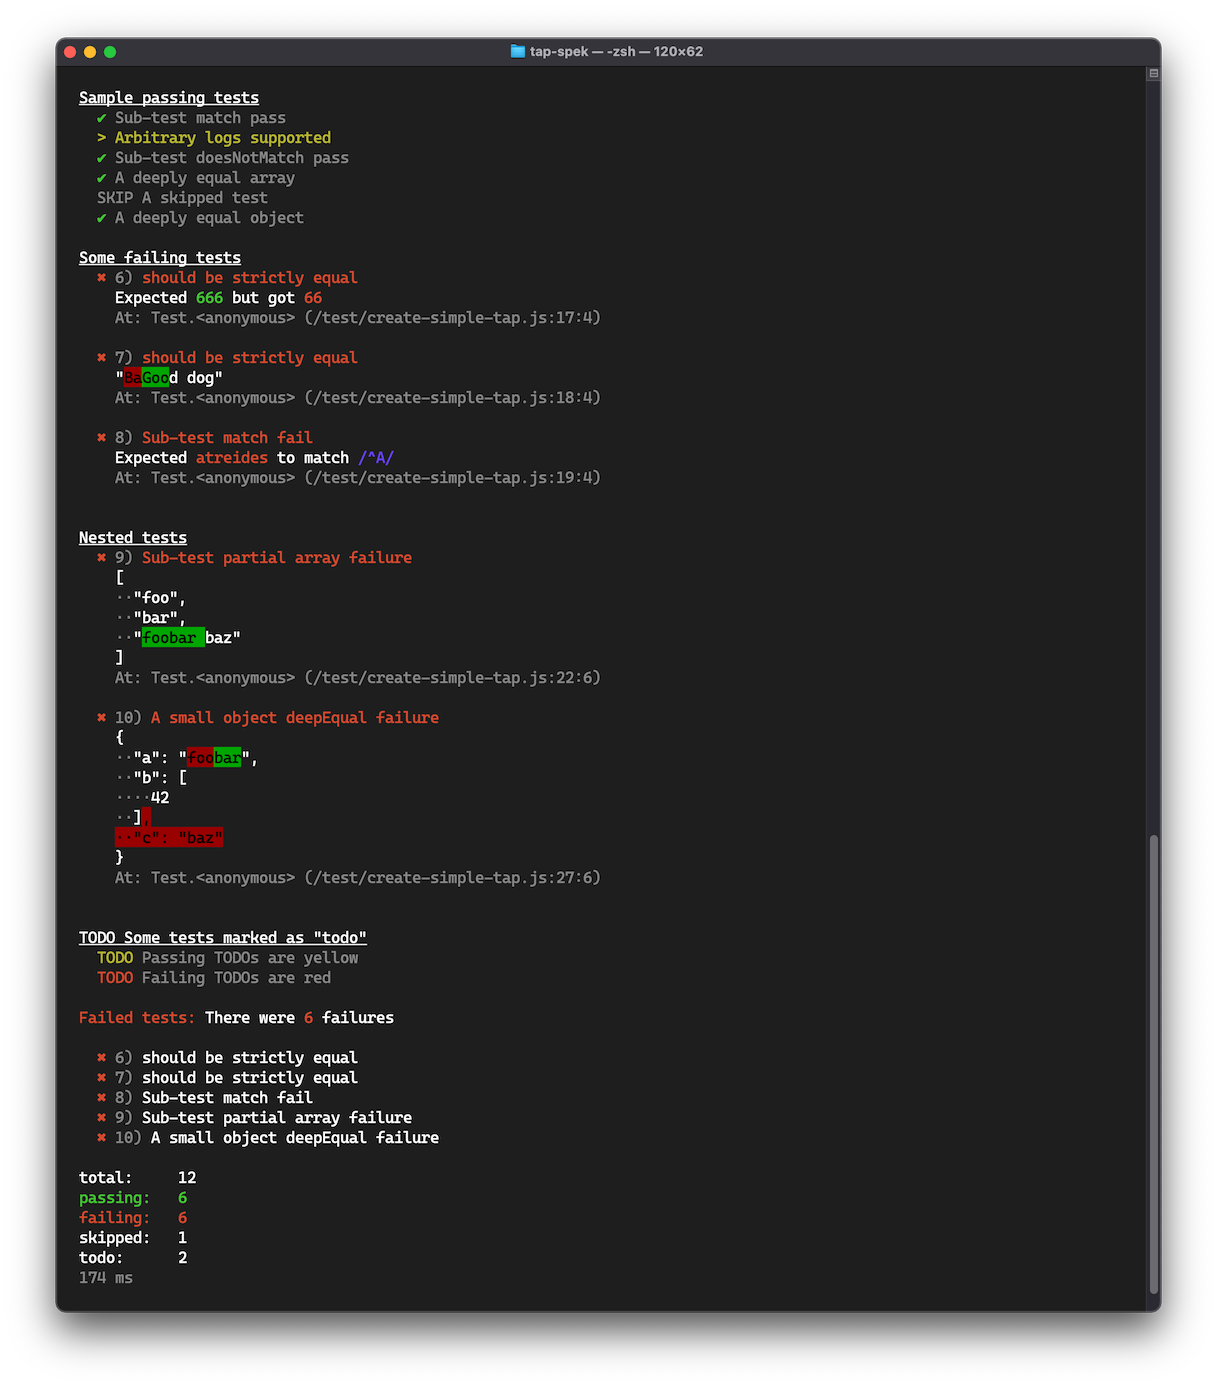
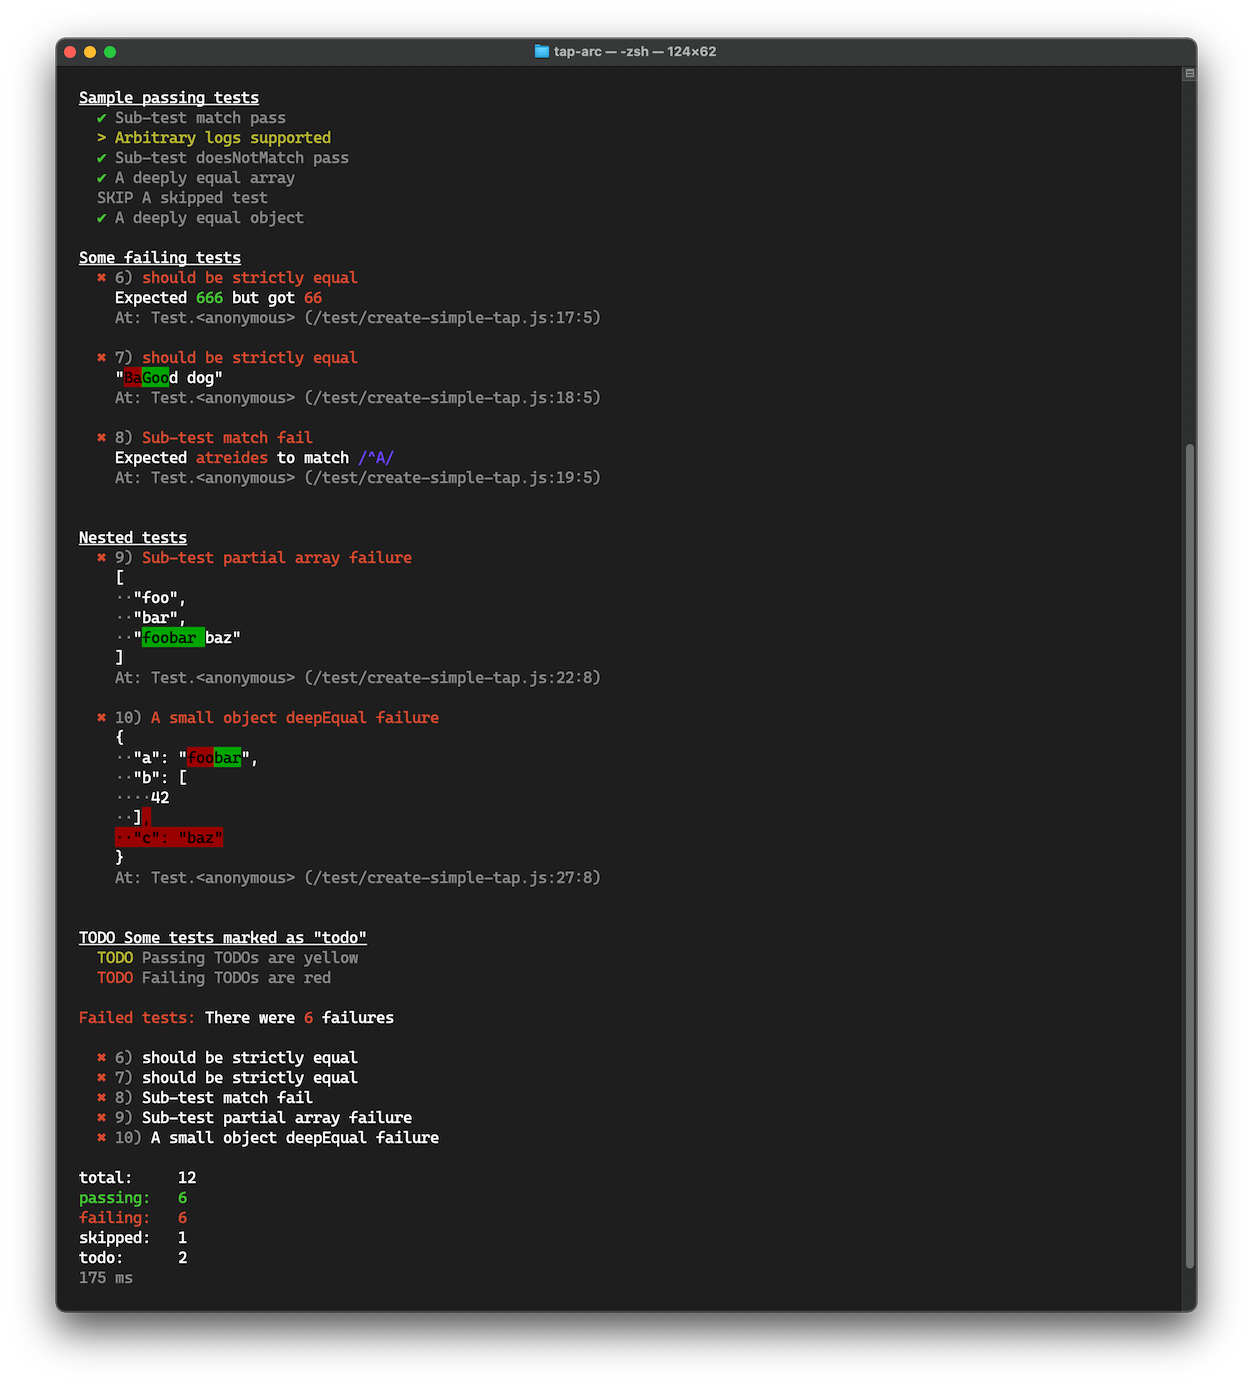
Finish renaming to tap-arc (#11)

diff --git a/index.js b/index.js
@@ -67,7 +67,7 @@ function makeDiff (actual, expected, indent = '  ') {
 function usage () {
   console.log(`
 Usage:
-  tap-spek <options>
+  tap-arc <options>
 
 Parses TAP data from stdin, and outputs a "spec-like" formatted result.
 
@@ -78,17 +78,17 @@ Options:
 
 	-p | --pessimistic | --bail
 		Immediately exit upon encountering a failure
-		example: tap-spek -p
+		example: tap-arc -p
 
 	--padding [space, dot, <custom characters>]
 		String to use when padding output (default="  ")
-		example: tap-spek --padding "••"
-		example: tap-spek --padding dot
+		example: tap-arc --padding "••"
+		example: tap-arc --padding dot
 
 	--indent [space, dot, <custom characters>]
 		String to use when indenting Object diffs (default="··")
-		example: tap-spek --indent ">>"
-		example: tap-spek --indent space
+		example: tap-arc --indent ">>"
+		example: tap-arc --indent space
 	`)
   process.exit()
 }
@@ -141,36 +141,36 @@ for (let i = 0; i < args.length; i++) {
 let { indent, pessimistic, padding, verbose } = options
 
 const parser = new Parser({ bail: pessimistic })
-const tapSpek = through()
+const tapArc = through()
 const pad = createPad(padding)
 const cwd = process.cwd()
 const start = Date.now()
 
 parser.on('pass', (pass) => {
-  tapSpek.push(`${pad(2)}${OKAY} ${dim(pass.name)}\n`)
+  tapArc.push(`${pad(2)}${OKAY} ${dim(pass.name)}\n`)
 })
 
 parser.on('skip', (skip) => {
-  tapSpek.push(`${pad(2)}${dim(`SKIP ${skip.name}`)}\n`)
+  tapArc.push(`${pad(2)}${dim(`SKIP ${skip.name}`)}\n`)
 })
 
 parser.on('extra', (extra) => {
-  if (extra.trim().length > 0) tapSpek.push(`${pad(2)}${yellow(`> ${extra}`)}`)
+  if (extra.trim().length > 0) tapArc.push(`${pad(2)}${yellow(`> ${extra}`)}`)
 })
 
 parser.on('comment', (comment) => {
   // Log test-group name
   if (!RESULT_COMMENTS.some((c) => comment.startsWith(c, 2)))
-    tapSpek.push(`\n${pad()}${underline(comment.trimEnd().replace(/^(# )/, ''))}\n`)
+    tapArc.push(`\n${pad()}${underline(comment.trimEnd().replace(/^(# )/, ''))}\n`)
 })
 
 parser.on('todo', (todo) => {
-  if (todo.ok) tapSpek.push(`${pad(2)}${yellow('TODO')} ${dim(todo.name)}\n`)
-  else tapSpek.push(`${pad(2)}${red('TODO')} ${dim(todo.name)}\n`)
+  if (todo.ok) tapArc.push(`${pad(2)}${yellow('TODO')} ${dim(todo.name)}\n`)
+  else tapArc.push(`${pad(2)}${red('TODO')} ${dim(todo.name)}\n`)
 })
 
 parser.on('fail', (fail) => {
-  tapSpek.push(`${pad(2)}${FAIL} ${dim(`${fail.id})`)} ${red(fail.name)}\n`)
+  tapArc.push(`${pad(2)}${FAIL} ${dim(`${fail.id})`)} ${red(fail.name)}\n`)
 
   if (fail.diag) {
     const { actual, at, expected, operator, stack } = fail.diag
@@ -252,7 +252,7 @@ parser.on('fail', (fail) => {
     // final formatting, each entry must be a single line
     msg = msg.map((line) => `${pad(3)}${line}\n`)
 
-    tapSpek.push(msg.join(''))
+    tapArc.push(msg.join(''))
   }
 })
 
@@ -264,23 +264,23 @@ parser.on('complete', (result) => {
     failureSummary += red(result.fail)
     failureSummary += ` failure${result.fail > 1 ? 's' : ''}\n\n`
 
-    tapSpek.push(failureSummary)
+    tapArc.push(failureSummary)
 
     for (const fail of result.failures) {
-      tapSpek.push(`${pad(2)}${FAIL} ${dim(`${fail.id})`)} ${fail.name}\n`)
+      tapArc.push(`${pad(2)}${FAIL} ${dim(`${fail.id})`)} ${fail.name}\n`)
     }
   }
 
-  tapSpek.push(`\n${pad()}total:     ${result.count}\n`)
-  if (result.pass > 0) tapSpek.push(green(`${pad()}passing:   ${result.pass}\n`))
-  if (result.fail > 0) tapSpek.push(red(`${pad()}failing:   ${result.fail}\n`))
-  if (result.skip > 0) tapSpek.push(`${pad()}skipped:   ${result.skip}\n`)
-  if (result.todo > 0) tapSpek.push(`${pad()}todo:      ${result.todo}\n`)
-  if (result.bailout) tapSpek.push(`${pad()}${bold(underline(red('BAILED!')))}\n`)
+  tapArc.push(`\n${pad()}total:     ${result.count}\n`)
+  if (result.pass > 0) tapArc.push(green(`${pad()}passing:   ${result.pass}\n`))
+  if (result.fail > 0) tapArc.push(red(`${pad()}failing:   ${result.fail}\n`))
+  if (result.skip > 0) tapArc.push(`${pad()}skipped:   ${result.skip}\n`)
+  if (result.todo > 0) tapArc.push(`${pad()}todo:      ${result.todo}\n`)
+  if (result.bailout) tapArc.push(`${pad()}${bold(underline(red('BAILED!')))}\n`)
 
-  tapSpek.end(`${dim(`${pad()}${prettyMs(start)}`)}\n\n`)
+  tapArc.end(`${dim(`${pad()}${prettyMs(start)}`)}\n\n`)
 
   process.exit(result.ok ? 0 : 1)
 })
 
-process.stdin.pipe(parser).pipe(tapSpek).pipe(process.stdout)
+process.stdin.pipe(parser).pipe(tapArc).pipe(process.stdout)

diff --git a/test/index.js b/test/index.js
@@ -5,7 +5,7 @@ const ansiRegex = require('./util/ansi-regex.js')
 const { scripts } = require('../package.json')
 
 const commands = Object.keys(scripts)
-  .filter((k) => k.indexOf('spek:') === 0)
+  .filter((k) => k.indexOf('tap-arc:') === 0)
   .map((c) => c.split(':').slice(1))
 
 function trimNLines (text, n) {
@@ -18,7 +18,7 @@ for (const c of commands) {
   const [ command, flags = '' ] = c
   const name = `${command}${flags ? ` ${flags}` : ''}`
 
-  test(`"${name}" tap-spek output matches "${name}" snapshot`, (t) => {
+  test(`"${name}" tap-arc output matches "${name}" snapshot`, (t) => {
     const fullSnapshot = fs.readFileSync(`${__dirname}/snapshots/${command}${flags}.txt`)
     const [ trimmedSnapshot ] = trimNLines(fullSnapshot.toString(), 3)
 

diff --git a/scripts/make-snapshots.js b/scripts/make-snapshots.js
@@ -1,7 +1,7 @@
 const { exec } = require('child_process')
 const { scripts } = require('../package.json')
 
-const commands = Object.keys(scripts).filter((key) => key.indexOf('spek:') === 0)
+const commands = Object.keys(scripts).filter((key) => key.indexOf('tap-arc:') === 0)
 
 for (const command of commands) {
   const [ name, args = '' ] = command.split(':').slice(1)

diff --git a/README.md b/README.md
@@ -1,5 +1,3 @@
-> ⚠  In transition from "tap-spek" to "tap-arc"
-
 # `tap-arc`
 
 > A small (~12kB) [TAP](https://testanything.org/) reporter with spec-like output, streaming, and failure diffing.
@@ -74,10 +72,10 @@ Options:
 The bulk of the lib lives in `./index.js`.  
 `./bin/tap-arc` pipes stdin (from a TAP reporter) to `tap-arc` and then to stdout. The bin also handles exit code for a failing run.
 
-When building `tap-arc`, it's helpful to try various TAP outputs. See `package.json` `"scripts"` for useful "spek:*" commands to test passing and failing TAP.
+When building `tap-arc`, it's helpful to try various TAP outputs. See `package.json` `"scripts"` for useful "tap-arc:*" commands to test passing and failing TAP.
 
 ```sh
-npm run spek:simple # used to create the screen shot above
+npm run tap-arc:simple # used to create the screen shot above
 ```
 
 The main library is snapshot tested (`npm test` loads all snapshots to compare to current output). Create snapshots with the `npm run make-snapshots` commands.
